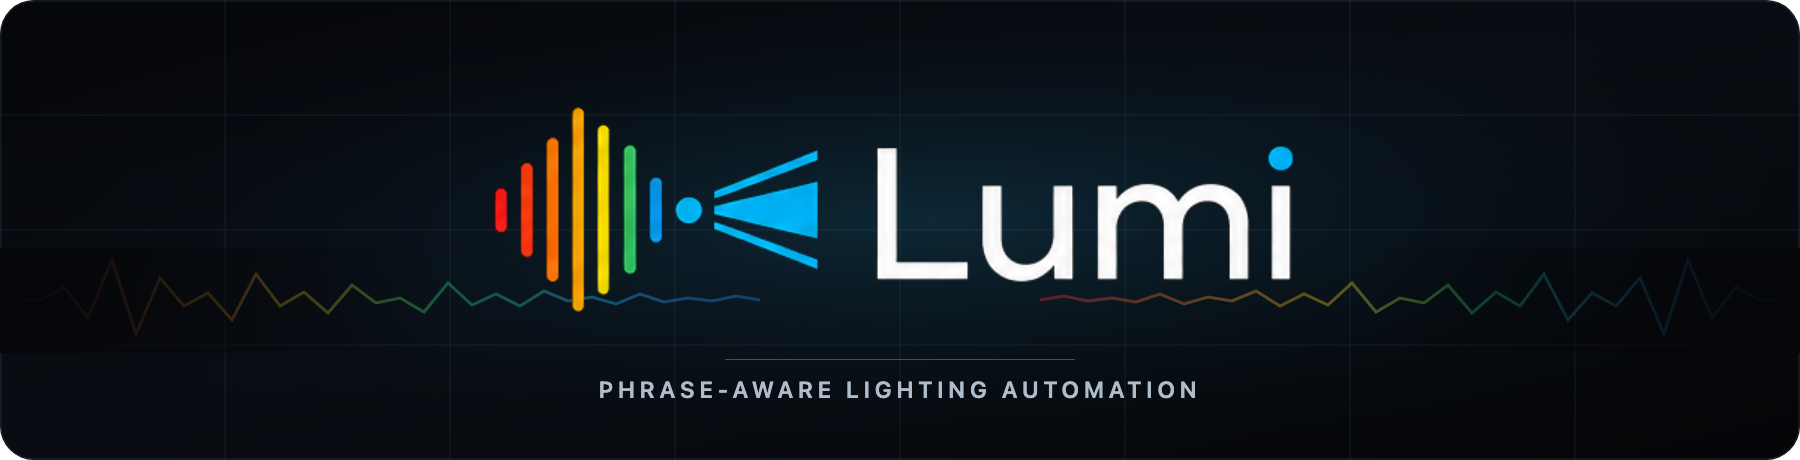
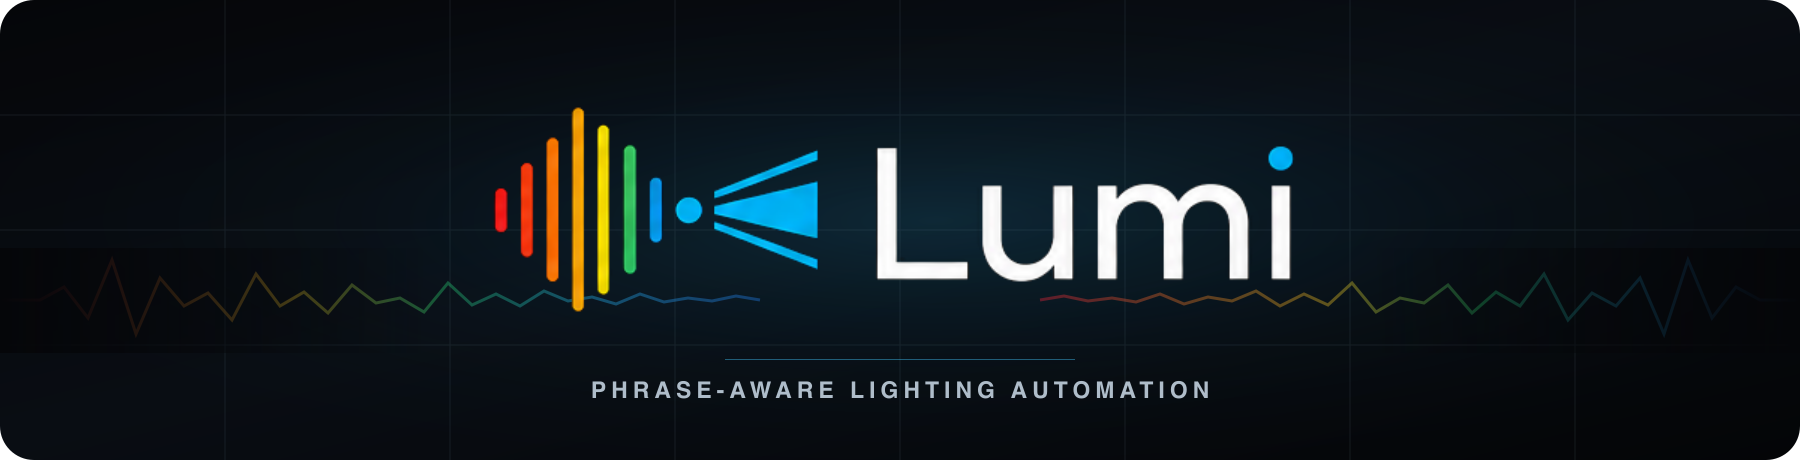
docs: refine GitHub header and live intro

Changed region(s): [[0.3111, 0.8217, 0.6844, 0.8826], [0.9956, 0.9435, 1.0, 0.9739], [0.9956, 0.0304, 1.0, 0.0609]]

diff --git a/README.md b/README.md
@@ -23,7 +23,7 @@ The complete show runs locally on your Mac. SoundSwitch remains responsible for
 fixtures and DMX output; Lumi acts like a virtual lighting operator beside your
 normal controller.
 
-![Lumi Local Playback running a prepared two-track show](docs/assets/screenshots/local-playback.png)
+![Lumi Live Decks with the current and next track side by side](docs/assets/screenshots/live-decks-intro.png)
 
 ![The complete Lumi workflow from trusted USB source to SoundSwitch DMX](docs/assets/lumi-workflow.svg)
 
